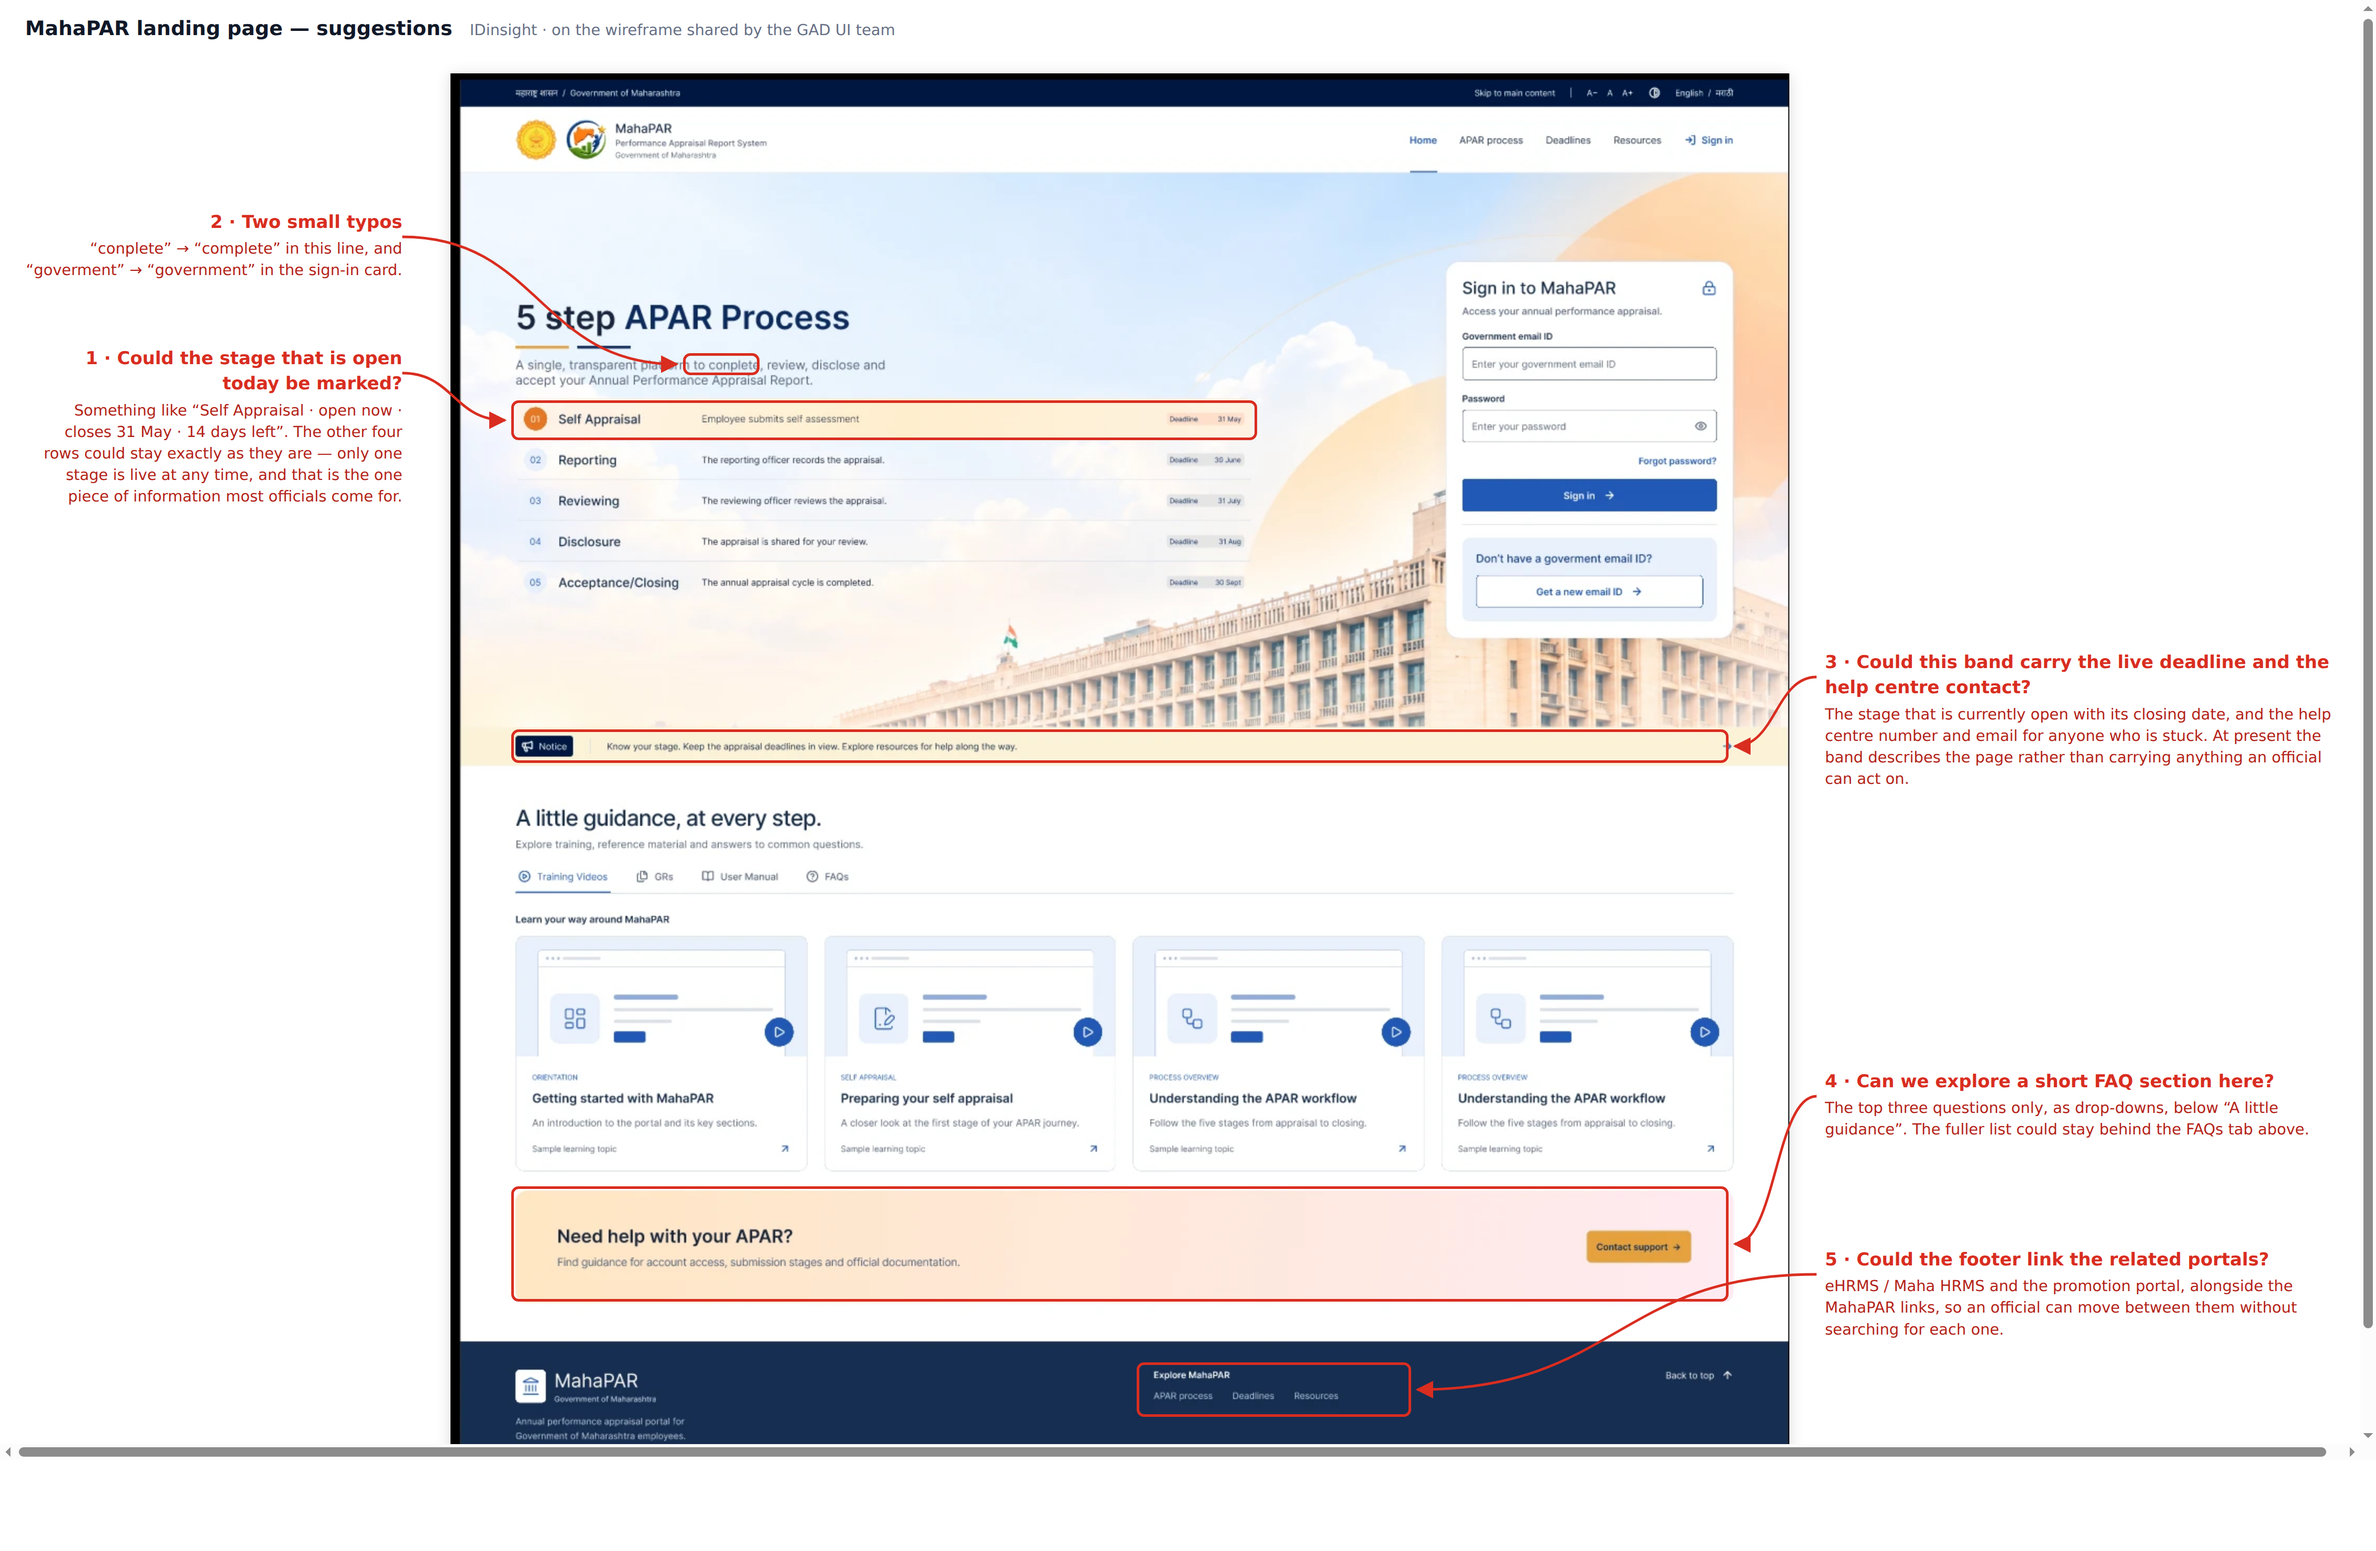
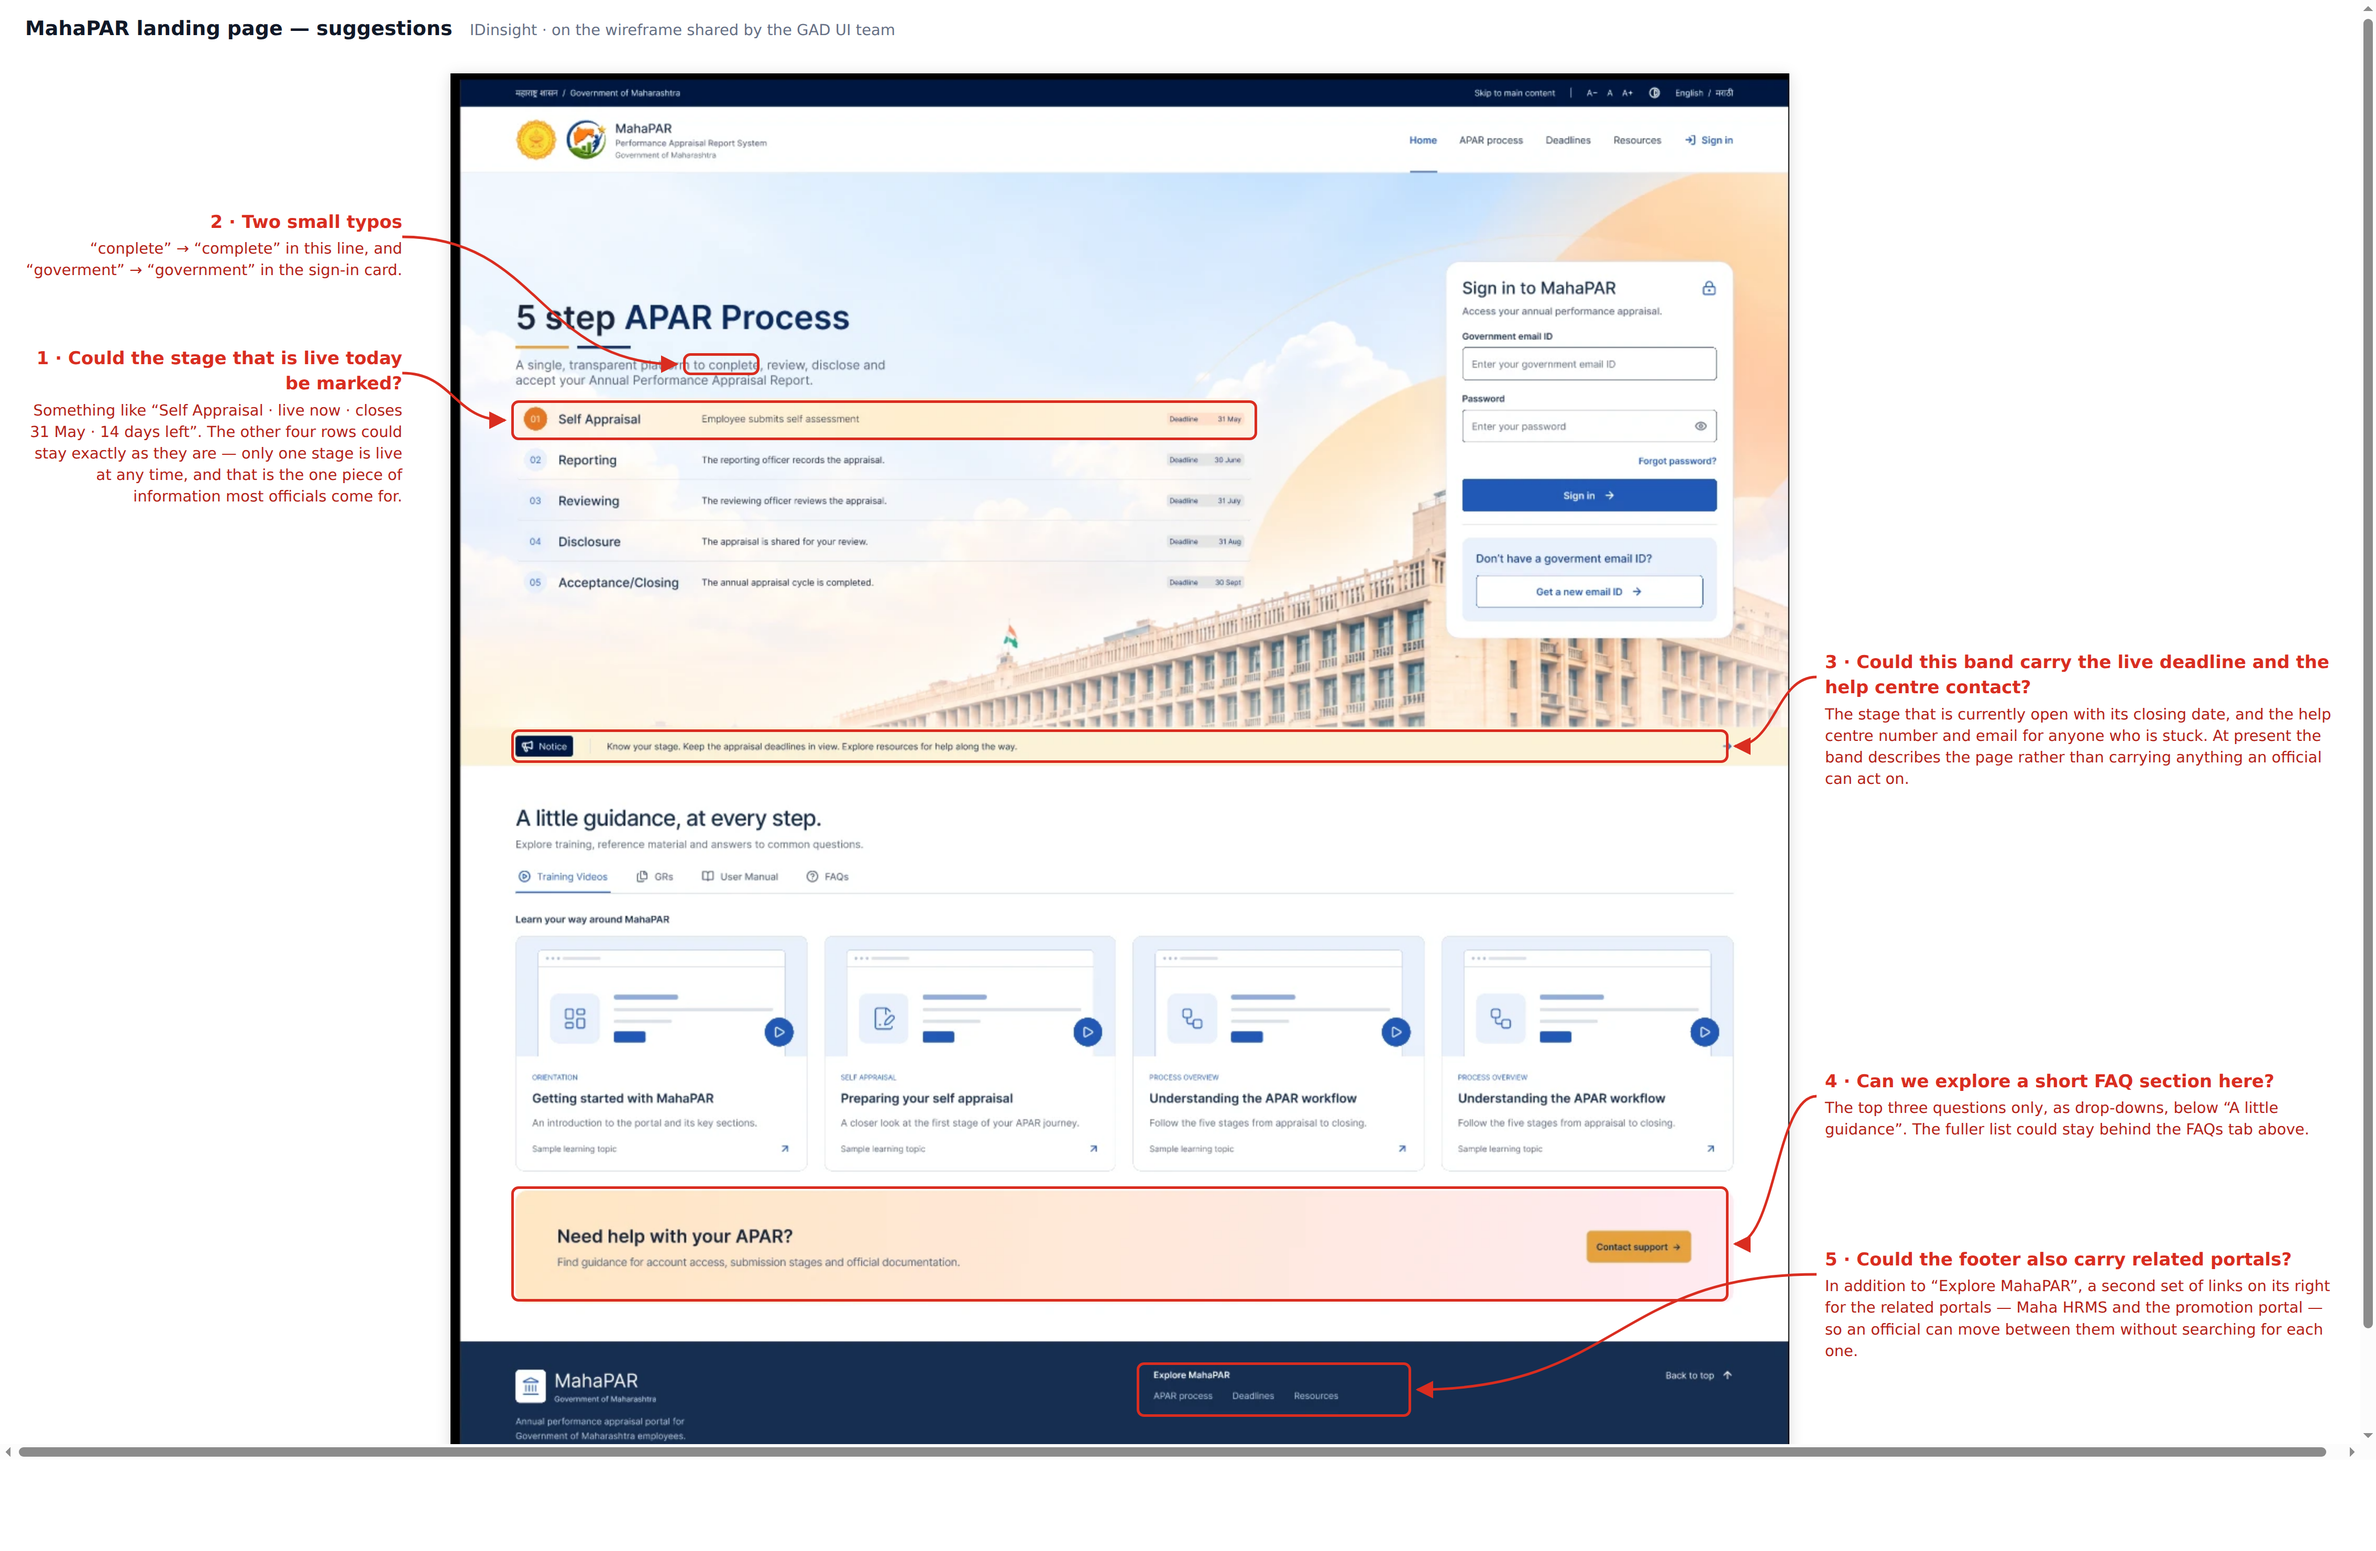
Reword two wireframe notes: "live now", and footer portals beside Explore MahaPAR
The live-stage example now reads "Self Appraisal - live now - closes
31 May - 14 days left", and the footer note asks for a second set of
links to Maha HRMS and the promotion portal to the right of Explore
MahaPAR.

Claude-Session: https://claude.ai/code/session_01AhMN5FiNi4YFAySXnrayG5

Changed region(s): [[0.0311, 0.2176, 0.1865, 0.3108], [0.7771, 0.8081, 0.9636, 0.8703]]

diff --git a/mahapar_review_assets/annotate_wireframe.py b/mahapar_review_assets/annotate_wireframe.py
@@ -25,8 +25,8 @@ RED = "#D92D20"
 # (box on the wireframe), (note text), side, note y on canvas
 NOTES = [
  dict(box=(58, 312, 712, 38), side="L", ny=330,
-      title="Could the stage that is open today be marked?",
-      body="Something like “Self Appraisal · open now · closes 31 May · 14 days left”. "
+      title="Could the stage that is live today be marked?",
+      body="Something like “Self Appraisal · live now · closes 31 May · 14 days left”. "
            "The other four rows could stay exactly as they are — only one stage is live "
            "at any time, and that is the one piece of information most officials come for."),
  dict(box=(222, 267, 73, 21), side="L", ny=200,
@@ -43,9 +43,10 @@ NOTES = [
       body="The top three questions only, as drop-downs, below “A little guidance”. "
            "The fuller list could stay behind the FAQs tab above."),
  dict(box=(655, 1230, 262, 52), side="R", ny=1190,
-      title="Could the footer link the related portals?",
-      body="eHRMS / Maha HRMS and the promotion portal, alongside the MahaPAR links, "
-           "so an official can move between them without searching for each one."),
+      title="Could the footer also carry related portals?",
+      body="In addition to “Explore MahaPAR”, a second set of links on its right for "
+           "the related portals — Maha HRMS and the promotion portal — so an official "
+           "can move between them without searching for each one."),
 ]
 
 b64 = base64.b64encode(open(SHOT, "rb").read()).decode()
